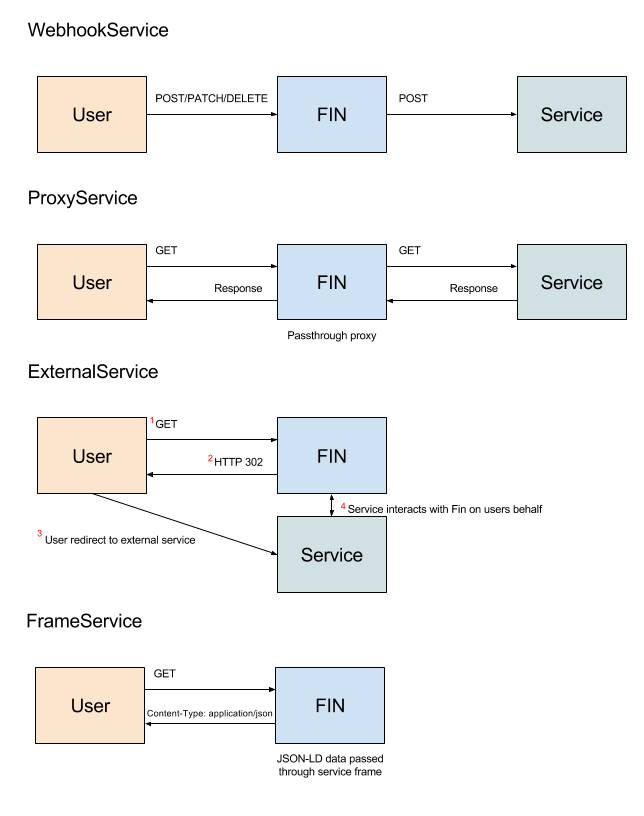
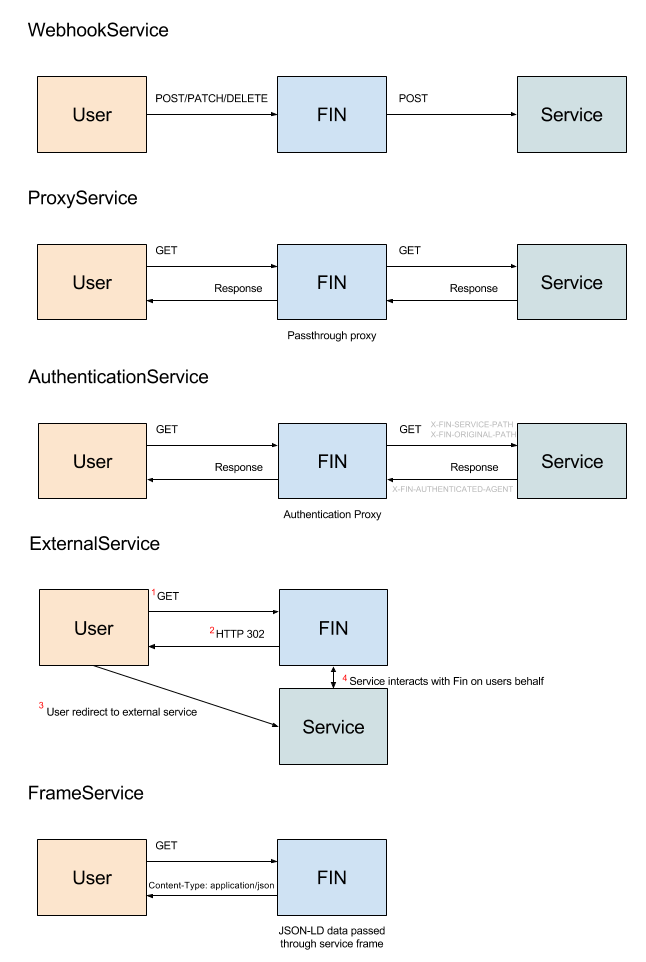
adding new headers for service proxy, bug fixes, docs for service proxy

diff --git a/server/middleware/admin.js b/server/middleware/admin.js
@@ -1,24 +1,23 @@
-var authUtils = require('../lib/auth');
-const {config} = require('@ucd-lib/fin-node-utils');
+const {config, jwt} = require('@ucd-lib/fin-node-utils');
+const auth = require('../lib/auth');
 
-module.exports = (authUtils) => {
-  return async (req, res, next) => {
-    // first check cookie
-    var token = req.cookies[config.jwt.cookieName];
+/**
+ * Only allow admin users
+ * 
+ * @param {*} req 
+ * @param {*} res 
+ * @param {*} next 
+ */
+module.exports = async (req, res, next) => {
+  let token = auth.getJwtFromRequest(req);
 
-    if( !token ) {
-      token = req.get('Authizoration');
-      if( token ) token = token.replace(/^Bearer /, '');
+  if( token ) {
+    let user = jwt.validate(token);
+    if( user ) {
+      let isAdmin = await auth.isAdmin(user.username);
+      if( isAdmin) return next();
     }
-
-    if( token ) {
-      var info = authUtils.jwt.validate(token);
-      var isAdmin = await authUtils.isAdmin(info.username);
-      if( info &&  isAdmin) {
-        return next();
-      }
-    }
-
-    res.sendStatus(401);
   }
+
+  res.sendStatus(401);
 }

diff --git a/services/cas/controller.js b/services/cas/controller.js
@@ -2,25 +2,23 @@ const {logger, config} = require('@ucd-lib/fin-node-utils');
 var CASAuthentication = require('cas-authentication');
 Logger = logger();
 
-let cas = null;
-let basePath = null;
+let cas = new CASAuthentication({
+  cas_url     : config.cas.url,
+  service_url : config.server.url
+});
+
 
 function init(app) {
 
-  app.get('/_init', (req, res) => {
-    basePath = req.query.basePath;
-
-    Logger.info('CAS Service: using a base path of '+basePath);
-    cas = new CASAuthentication({
-      cas_url     : config.cas.url,
-      service_url : config.server.url+basePath
-    });
-  });
+  // app.get('/_init', (req, res) => {
+  //   let servicePath = req.query.servicePath;
+  // });
 
   app.get('/login', (req, res) => {
     Logger.info('CAS Service: starting CAS redirection');
 
-    req.query.returnTo = basePath+'/login';
+    req.query.returnTo = config.server.url + req.get('x-fin-original-path');
+    cas.service_url = config.server.url + req.get('x-fin-service-path');
 
     cas.bounce(req, res, async () => {
       Logger.info('CAS Service: CAS redirection complete');

diff --git a/server/middleware/block.js b/server/middleware/block.js
@@ -1,18 +1,17 @@
 const {jwt, config} = require('@ucd-lib/fin-node-utils');
+const auth = require('../lib/auth');
 
+/**
+ * Block user if not logged in
+ */
 module.exports = (req, res, next) => {
-  // first check cookie
-  var token = req.cookies[config.jwt.cookieName];
-
-  if( !token ) {
-    token = req.get('Authorization');
-    if( token ) token = token.replace(/^Bearer /, '');
-  }
+  let token = auth.getJwtFromRequest(req);
 
   // if valid jwt set in cookie, we are good to go
   if( token && jwt.validate(token) ) {
     return next();
   }
 
+  // not logged in
   res.sendStatus(401);
 }

diff --git a/services/cas/index.js b/services/cas/index.js
@@ -1,6 +1,5 @@
 const express = require('express');
 const {logger, config} = require('@ucd-lib/fin-node-utils');
-const bodyParser = require('body-parser');
 const session = require('express-session');
 const Logger = logger('cas-service');
 
@@ -29,9 +28,6 @@ app.use((req, res, next) => {
   });
   next();
 });
-
-// parse application/json req body
-app.use(bodyParser.json());
 
 require('./controller')(app);
 

diff --git a/server/controllers/auth.js b/server/controllers/auth.js
@@ -55,12 +55,7 @@ router.get('/user', async ( req, res ) => {
   let user = authUtils.getUserFromRequest(req);
 
   if( user ) {
-    let result = {
-      loggedIn : true,
-      username : user.username
-    };
-    if( user.admin ) result.admin = true;
-    res.json(result);
+    res.json(user);
   } else {
     res.json({loggedIn: false});
   }

diff --git a/server/lib/fcrepoProxy.js b/server/lib/fcrepoProxy.js
@@ -261,7 +261,8 @@ class FcrepoProxy {
     proxy.web(req, res, {
       target : service.url+path,
       headers : {
-        'X-ORIGINAL-PATH' : req.originalUrl
+        'X-FIN-ORIGINAL-PATH' : req.originalUrl,
+        'X-FIN-SERVICE-PATH' : AUTHENTICATION_SERVICE_CHAR+'/'+service.id
       },
       ignorePath : true
     });

diff --git a/server/models/services.js b/server/models/services.js
@@ -317,7 +317,7 @@ class ServiceDefinition {
       request(
         this.url+'/_init',
         {qs : {
-            basePath: '/auth/'+this.id
+          servicePath: '/auth/'+this.id
         }},
         (error, response, body) => {
           // noop

diff --git a/server/lib/auth.js b/server/lib/auth.js
@@ -16,7 +16,7 @@ class AuthUtils {
    
     this.middleware = {
       block : require('../middleware/block'),
-      admin : require('../middleware/admin')(this)
+      admin : require('../middleware/admin')
     }
   }
 

diff --git a/services/README.md b/services/README.md
@@ -11,7 +11,35 @@ Currently Fin has four types of services.
   - A JSON-LD service that returns a framed JSON-LD response based on the path of the service.
 - ExternalSerivce
   - A external service will send a HTTP 302 redirect to a external service.  The url of the redirect will include the current Fin url (host and path) as well as a auth token if the user is logged in.  The external service can then request data and make updates to Fin on the users behalf.  YOU SHOULD HAVE TRUST IN ALL REGISTERED EXTERNAL SERVICES.
+- AuthenticationService
+  - A authentication service will act a lot like a proxy service with all request to a root service path being redirect to the authentication service.  So a AuthenticationService with name **cas** will send all requests to /auth/cas/* to the service. The service should walk the user through it's login flow and eventually respond with a authorized agent.  When the fin server sees the agent it will mint a new JWT token for the given agent/username.
 
 ## Services HTTP flow
 
 ![Service Overview](fin-service-overview.png)
+
+## Implementing a AuthenticationService
+
+At it's core a authentication service should be a web service.  For this example we will create a service **foo** that sets up a listener to `/login`.  Requests to fin server at `/auth/foo/login` will be proxied to the authentication service at `/login`.  The service should handle the request and when finished respond with a custom header **X-FIN-AUTHENTICATED-AGENT**.  The value of this header should be the authenticated users username.
+
+Example: user alice as been athenticated by AuthenticationService
+```
+X-FIN-AUTHENTICATED-AGENT: alice
+```
+
+The fin service will see the custom header and take over the response to the user; minting a new jwt token, setting the token as a cookie and redirecting the user to a specified location finishing the authentication flow.  The server will handle logout events with calls to `/auth/logout` clearing all cookies and deleting the users fin session.
+
+### AuthenticationService Config (the sharp edges)
+
+Some login services will actually be redirects to auth providers via Oauth, CAS or like services.  In this case, the service needs to be aware it's actually behind a proxy when providing callback urls to these central auth services.  Using the example above, instead of redirecting a user back to `/login` after a redirect to a central authentication service, the local service will need to know it's actually living at `/auth/foo/*`.  Since the path is dependent on the service name there are two options.  First (and less desirable), a hard coded url and the service must be registered with a specified name.  The second option is to listen for the service path via two different mechanisms and dynamically configure the callback urls.
+
+#### AuthenticationService /_init 
+
+When a server starts, it will make a HTTP GET request to all AuthenticationServices to `/_init` with a query parameter of **servicePath**.  The value is **/auth/[service-name]** or for the example above: **/auth/foo**
+
+#### Custom Headers
+
+Every HTTP request proxied to the AuthenticationService will have two headers:
+
+ - **X-FIN-ORIGINAL-PATH**: The original path called to the fin server.  For the login example above this would be `/auth/foo/login`
+ - **X-FIN-SERVICE-PATH**: The root service path for the authentication service.  For the example above this would be `/auth/foo`
